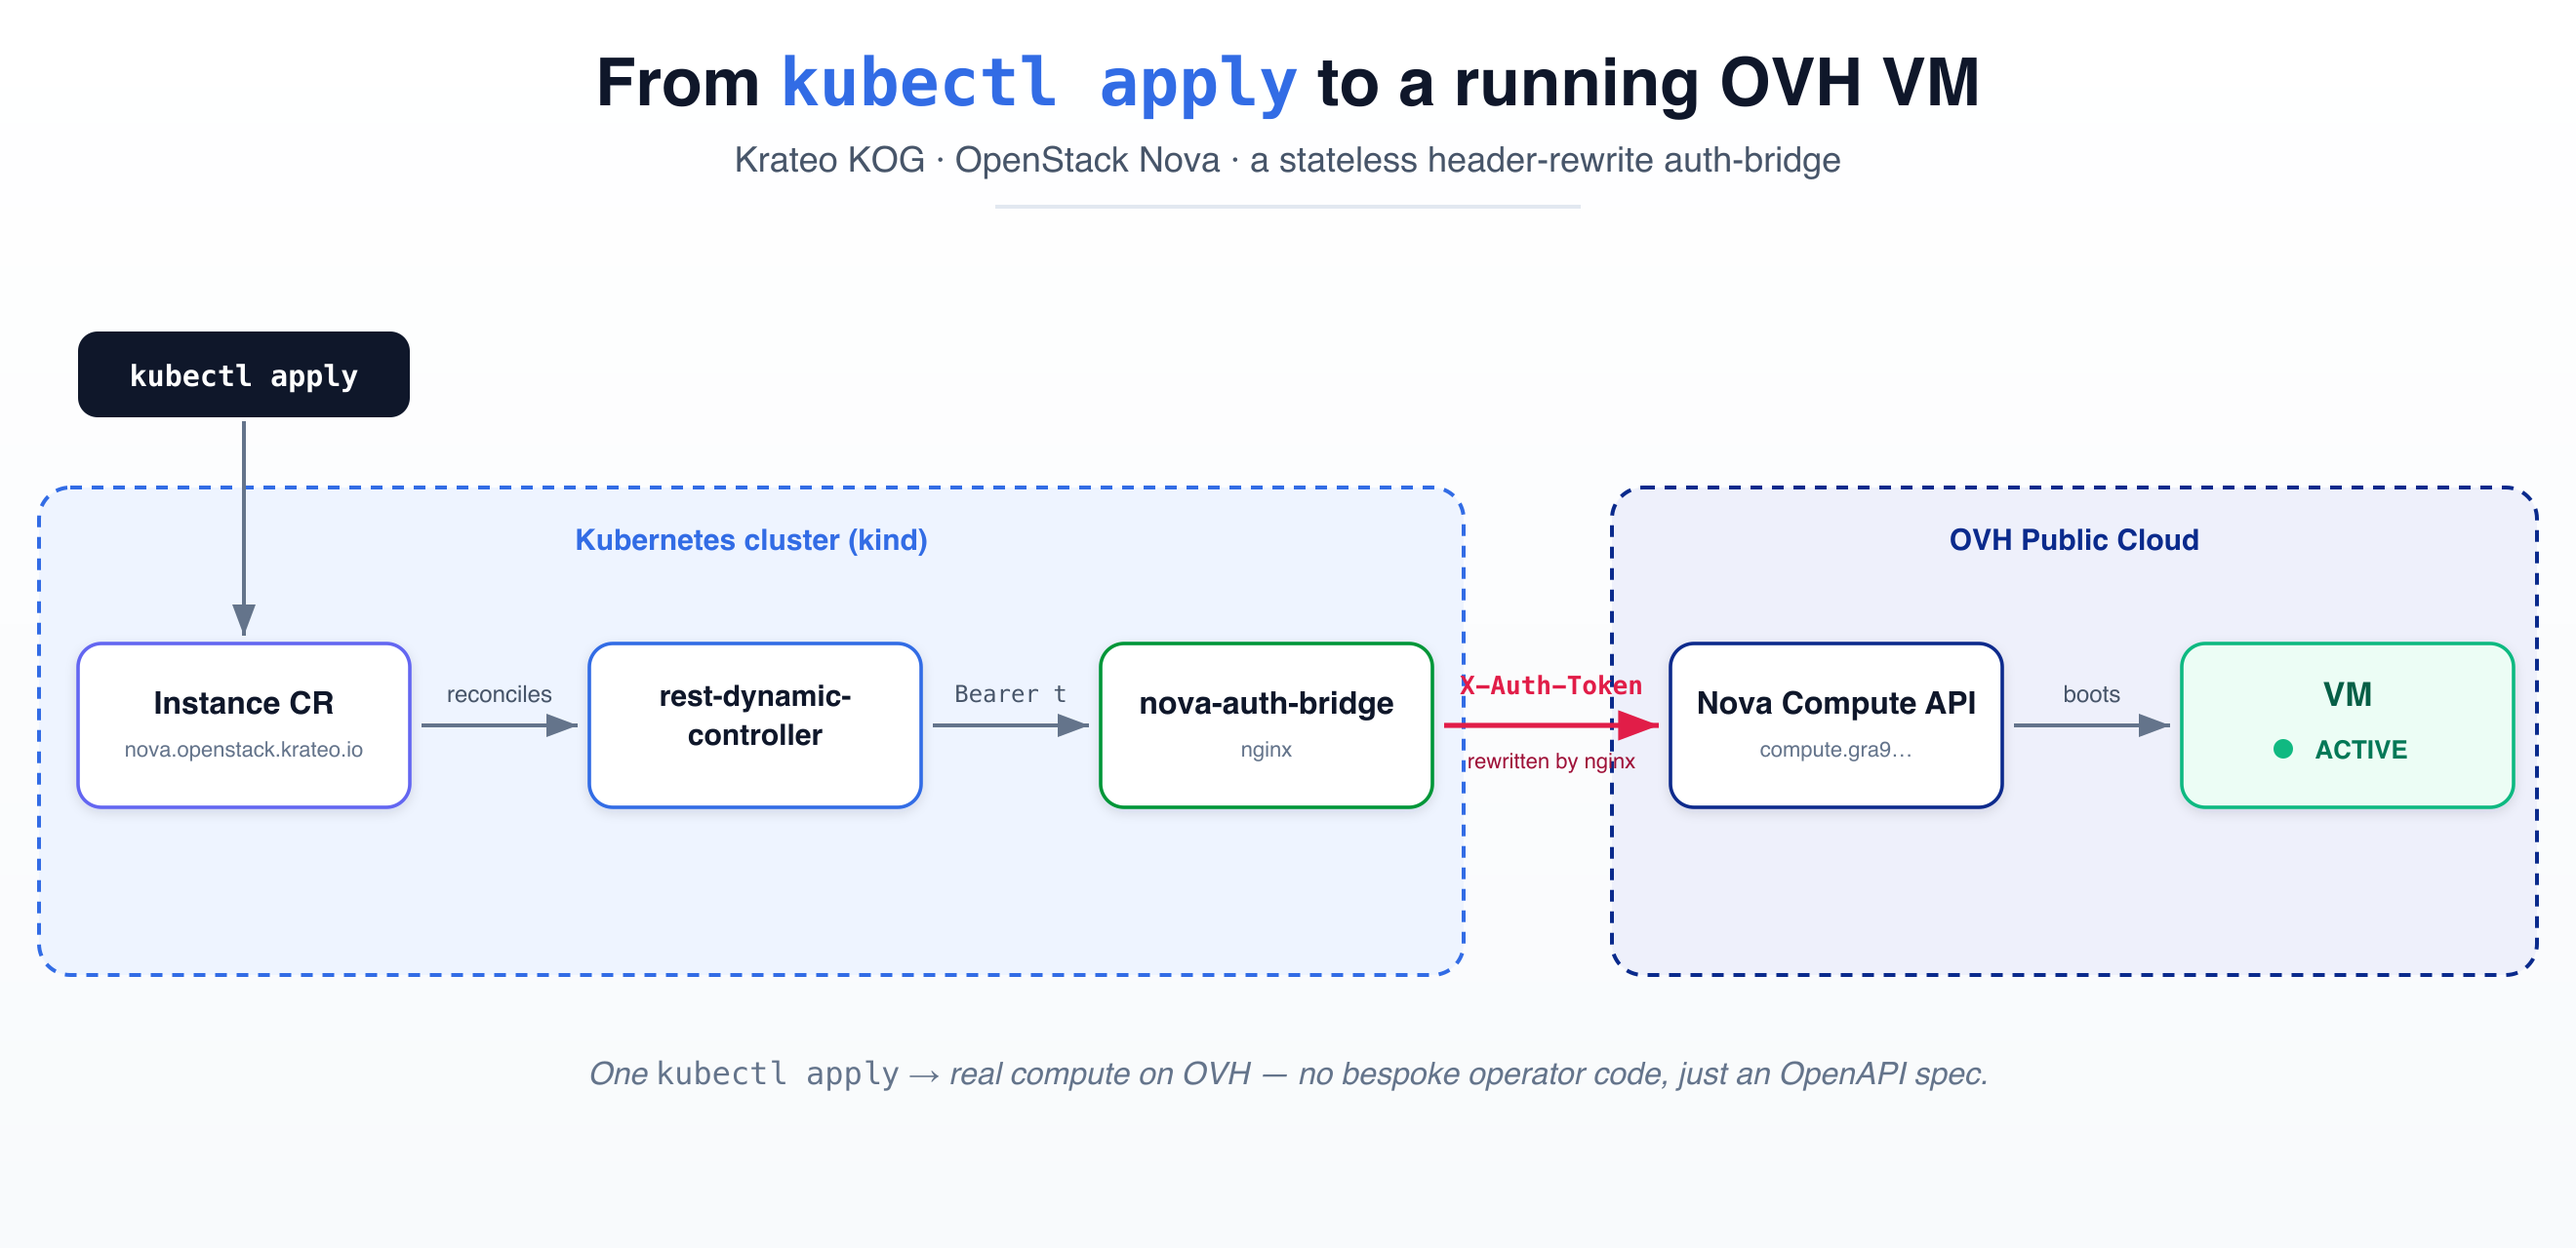
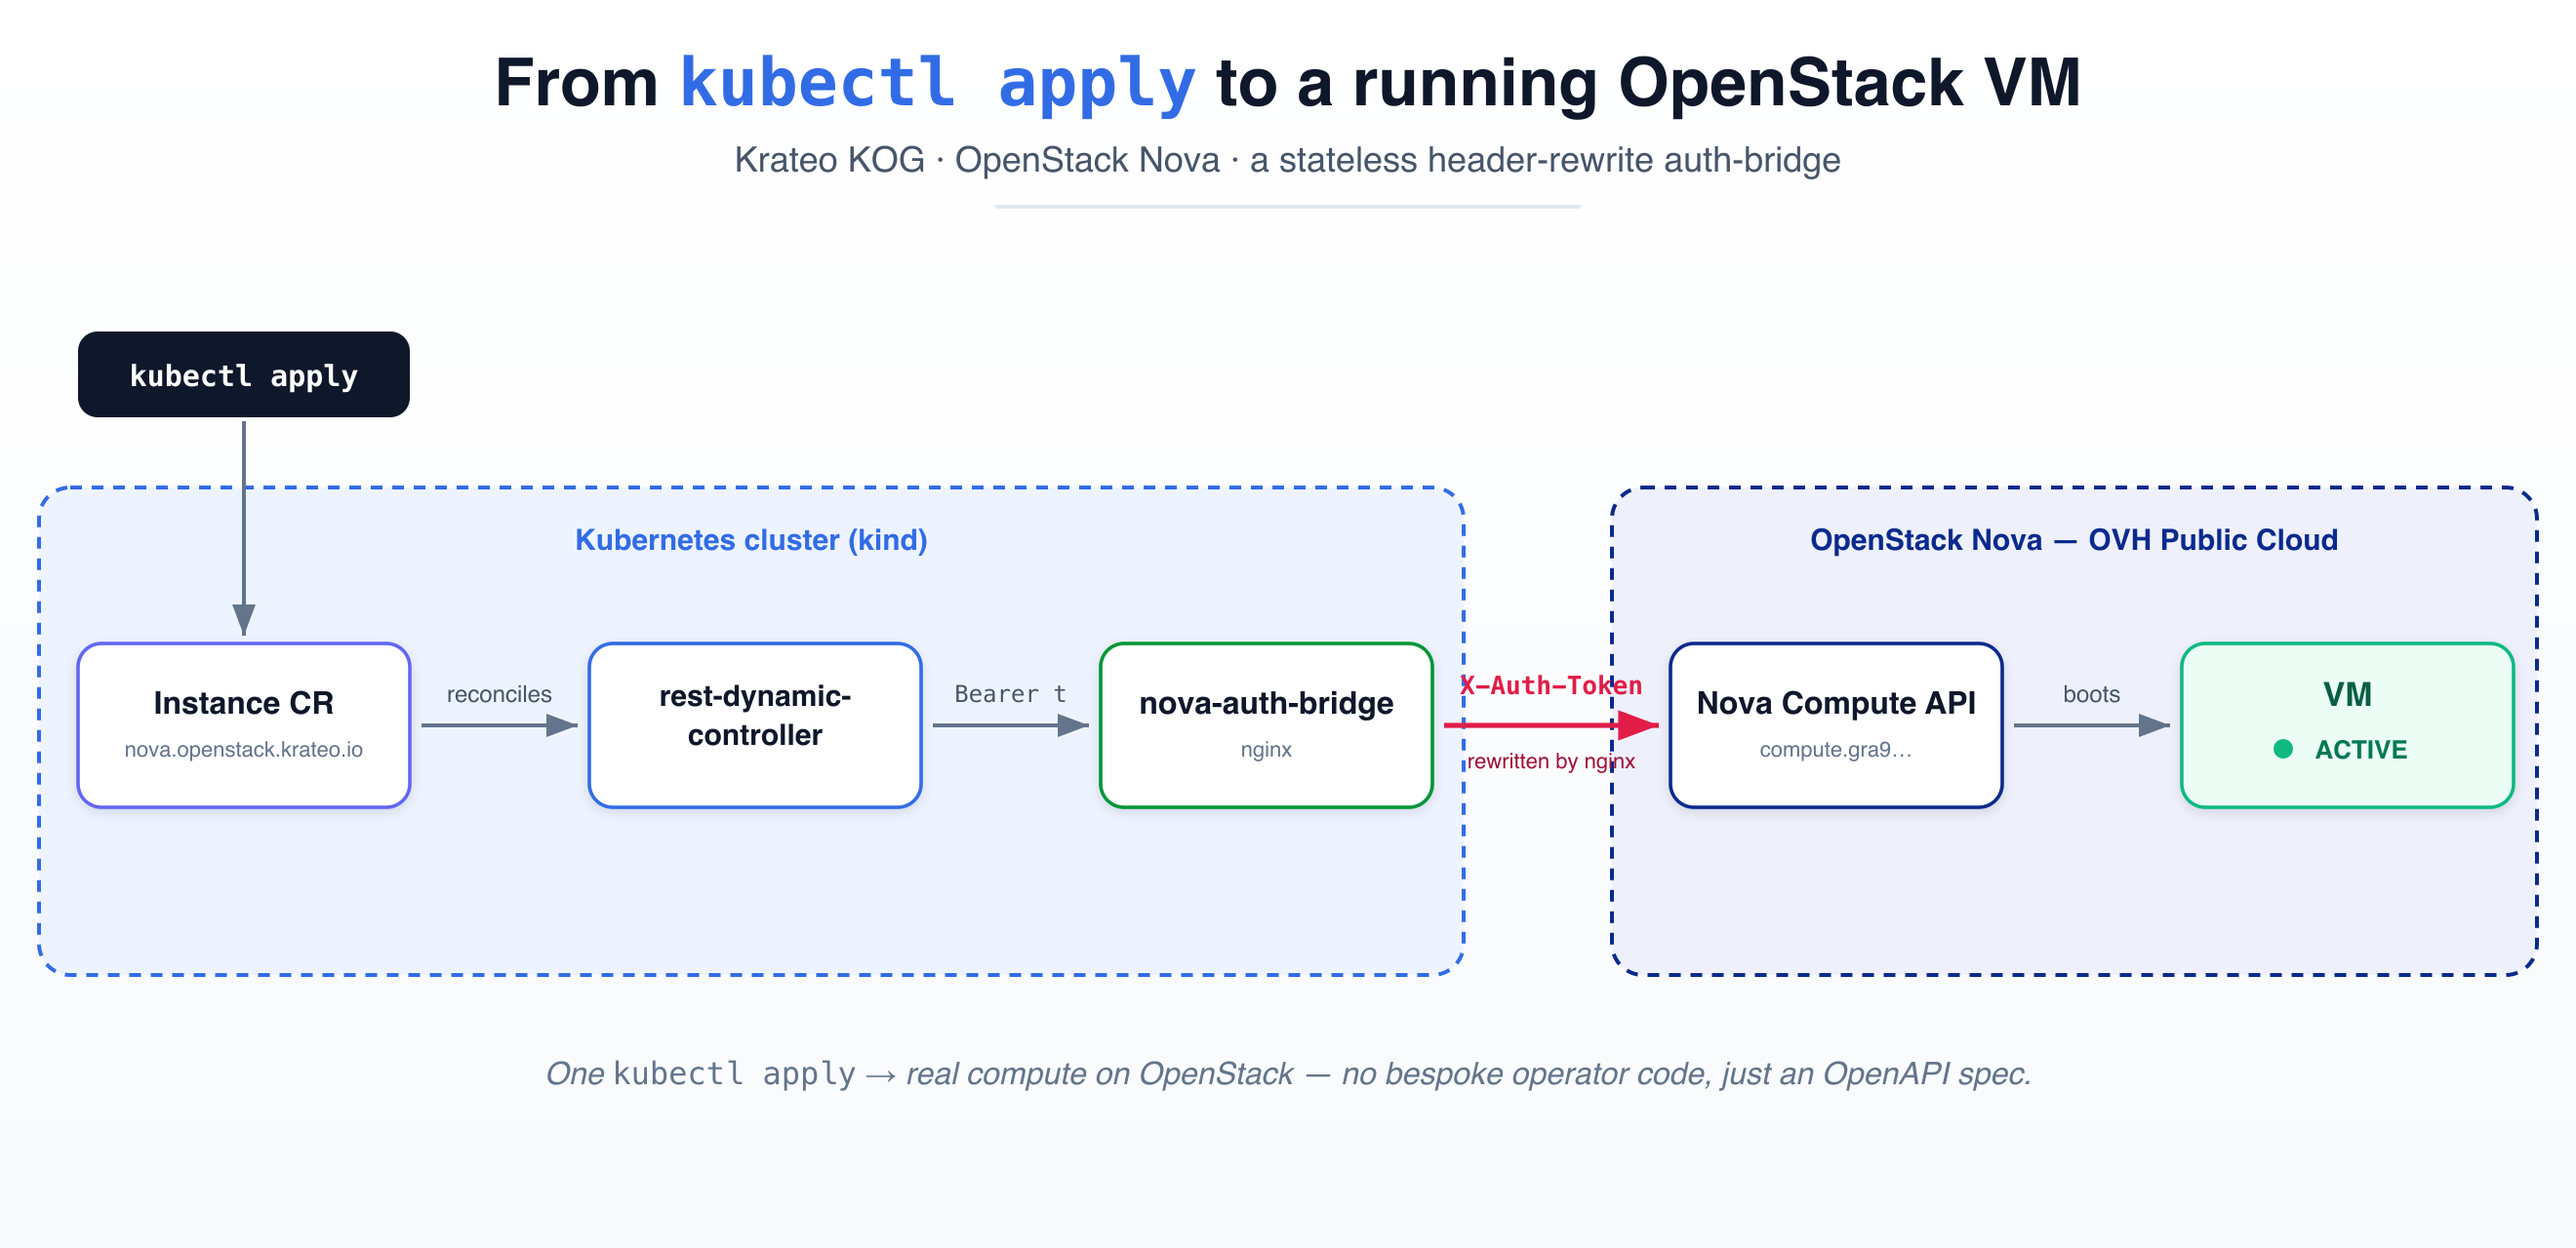
docs: reframe article and diagram as OpenStack-centric (OVH as target)
The operator targets the standard OpenStack Compute (Nova) API; OVH is
just the managed OpenStack we validated against. Retitle to "OpenStack
VM", clarify provider-agnosticism, and relabel the diagram's right panel
"OpenStack Nova — OVH Public Cloud".

Changed region(s): [[0.1864, 0.0312, 0.8076, 0.0938], [0.2174, 0.8438, 0.7765, 0.875], [0.7144, 0.4062, 0.9008, 0.4375]]

diff --git a/docs/medium-article.md b/docs/medium-article.md
@@ -1,10 +1,11 @@
-# From `kubectl apply` to a running OVH VM — with zero operator code
+# From `kubectl apply` to a running OpenStack VM — with zero operator code
 
 *How Krateo's Operator Generator (KOG) turns the OpenStack Nova API into a
-native Kubernetes CRD, and the five very real bugs we hit getting it to
-boot a VM on OVH Public Cloud.*
+native Kubernetes CRD — and the five very real bugs we hit booting an
+OpenStack VM, validated against OVH Public Cloud as the managed-OpenStack
+target.*
 
-![A single kubectl apply of an Instance CR flows through the rest-dynamic-controller and an nginx auth-bridge — which rewrites Authorization: Bearer into X-Auth-Token — to the OVH Nova Compute API, booting an ACTIVE VM.](images/architecture.png)
+![A single kubectl apply of an Instance CR flows through the rest-dynamic-controller and an nginx auth-bridge — which rewrites Authorization: Bearer into X-Auth-Token — to the OpenStack Nova Compute API (here on OVH), booting an ACTIVE VM.](images/architecture.png)
 
 ---
 
@@ -23,9 +24,16 @@ That's the promise of [Krateo](https://krateo.io)'s **Operator Generator
 the underlying REST API.
 
 This article is the story of pointing that machinery at **OpenStack Nova**
-on **OVH Public Cloud** — and the five concrete problems that stood
-between "it renders" and "there's a VM running." None of them showed up
-in CI. All of them showed up the moment we ran it for real.
+— and the five concrete problems that stood between "it renders" and
+"there's a VM running." None of them showed up in CI. All of them showed
+up the moment we ran it for real.
+
+Nothing here is OVH-specific: the target is the standard OpenStack
+Compute (Nova) API, so the same chart works against any Keystone + Nova
+endpoint (a private cloud, Devstack, another public provider). **OVH
+Public Cloud** is simply the managed OpenStack we validated against — the
+only OVH-flavoured details are the example endpoint/region and a couple
+of Keystone token-fetch quirks (Bug #4).
 
 ---
 
@@ -79,7 +87,7 @@ rest-dynamic-controller ──Authorization: Bearer <t>──► nova-auth-bridg
                                                               │
                                                   X-Auth-Token: <t>
                                                               ▼
-                                              OVH Nova Compute API ──► VM
+                                         OpenStack Nova Compute API ──► VM
 ```
 
 ---
@@ -186,16 +194,16 @@ hand-set env vars, but the moment we `source`d OVH's downloaded
 ## It boots! 🎉
 
 With those fixed, we applied an `Instance`. The controller POSTed through
-the bridge and OVH answered:
+the bridge and Nova answered:
 
 ```
 POST /servers  ->  HTTP/1.1 202 Accepted
 {"server": {"id": "90bff0b3-...", "adminPass": "...", ...}}
 ```
 
-A `kubectl apply` had created a **real, ACTIVE VM** on OVH, complete with a
-public IP. The entire chain — CR → KOG controller → header-rewrite bridge
-→ Nova — worked against live infrastructure.
+A `kubectl apply` had created a **real, ACTIVE OpenStack VM** (running on
+OVH), complete with a public IP. The entire chain — CR → KOG controller →
+header-rewrite bridge → Nova — worked against live infrastructure.
 
 ---
 
@@ -273,10 +281,10 @@ After redeploying, the full lifecycle worked:
 
 ## Try it
 
-A `kind` cluster, the Krateo `oasgen-provider`, this chart, and an OVH
-project are all you need. The repo includes a full walkthrough
-(`docs/e2e.md`) — bootstrap, token fetch, provision, and cleanup — and a
-short quickstart in the README.
+A `kind` cluster, the Krateo `oasgen-provider`, this chart, and any
+OpenStack project (we used OVH Public Cloud) are all you need. The repo
+includes a full walkthrough (`docs/e2e.md`) — bootstrap, token fetch,
+provision, and cleanup — and a short quickstart in the README.
 
 ```bash
 helm install oasgen-provider krateo/oasgen-provider -n krateo-system --create-namespace
@@ -287,6 +295,7 @@ kubectl apply -f chart/samples/test-server.yaml    # Instance
 kubectl -n krateo-system get instances.nova.openstack.krateo.io -w
 ```
 
-Then watch a row go `Ready`, and an actual VM appear in your OVH console.
+Then watch a row go `Ready`, and an actual VM appear in your OpenStack
+(OVH) console.
 
 *Don't forget to `kubectl delete` it — it bills by the hour.*
